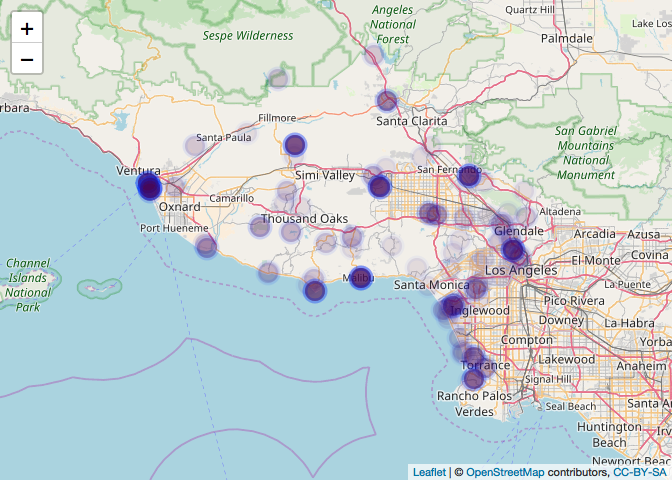
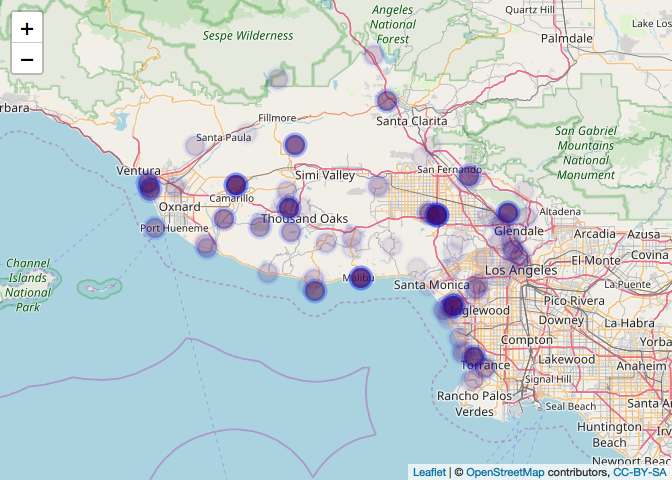
iNat summary

diff --git a/social_biodiv.md b/social_biodiv.md
@@ -16,7 +16,7 @@ Ilya
 
     ## '/Library/Frameworks/R.framework/Resources/bin/R' --no-site-file  \
     ##   --no-environ --no-save --no-restore --quiet CMD INSTALL  \
-    ##   '/private/var/folders/0d/qm_pqljx11s_ddc42g1_yscr0000gn/T/RtmpvNeh2B/devtools115c36817f857/yihui-knitr-2b3e617'  \
+    ##   '/private/var/folders/0d/qm_pqljx11s_ddc42g1_yscr0000gn/T/Rtmprycn0Z/devtools116d16d501ee7/yihui-knitr-2b3e617'  \
     ##   --library='/Library/Frameworks/R.framework/Versions/3.4/Resources/library'  \
     ##   --install-tests
 
@@ -173,7 +173,7 @@ print("pages")
 print(pages)
 ```
 
-    ## 69
+    ## 67
 
 ``` python
 total = init['photos']['total']
@@ -188,7 +188,7 @@ print(total)
 #write to csv
 ```
 
-    ## 17215
+    ## 16750
 
 ``` python
 df = pd.DataFrame.from_dict(init)
@@ -254,12 +254,12 @@ head(E)
     ## # A tibble: 6 x 12
     ##     lng locName howMany sciName obsValid locationPrivate obsDt obsReviewed
     ##   <dbl> <chr>     <int> <chr>   <lgl>    <lgl>           <chr> <lgl>      
-    ## 1 -119. Ventur…       4 Hirund… TRUE     FALSE           2018… FALSE      
-    ## 2 -119. Ventur…      20 Larus … TRUE     FALSE           2018… FALSE      
-    ## 3 -119. Ventur…       1 Cathar… TRUE     FALSE           2018… FALSE      
-    ## 4 -119. Ventur…       1 Egrett… TRUE     FALSE           2018… FALSE      
-    ## 5 -119. Ventur…       2 Passer… TRUE     FALSE           2018… FALSE      
-    ## 6 -119. Ventur…      12 Larus … TRUE     FALSE           2018… FALSE      
+    ## 1 -119. Calleg…       3 Geothl… TRUE     FALSE           2018… FALSE      
+    ## 2 -119. Calleg…       1 Icteri… TRUE     FALSE           2018… FALSE      
+    ## 3 -119. Calleg…      30 Hirund… TRUE     FALSE           2018… FALSE      
+    ## 4 -119. Calleg…       3 Mimus … TRUE     FALSE           2018… FALSE      
+    ## 5 -119. Calleg…       5 Haemor… TRUE     FALSE           2018… FALSE      
+    ## 6 -119. Calleg…       4 Quisca… TRUE     FALSE           2018… FALSE      
     ## # ... with 4 more variables: comName <chr>, lat <dbl>, locID <chr>,
     ## #   locId <chr>
 
@@ -319,6 +319,20 @@ Imap <- leaflet(I) %>%
                                fillColor=~pal(as.numeric(as.factor(I$iconic_taxon_name)))
                    )
 Imap
+```
+
+![](social_biodiv_files/figure-markdown_github/inat_image-1.png)
+
+##### find out how many iNat users are represented in dataset
+
+``` r
+length(unique(I$user_id))
+```
+
+    ## [1] 316
+
+``` r
+hist(I$user_id)
 ```
 
 ![](social_biodiv_files/figure-markdown_github/unnamed-chunk-10-1.png)
